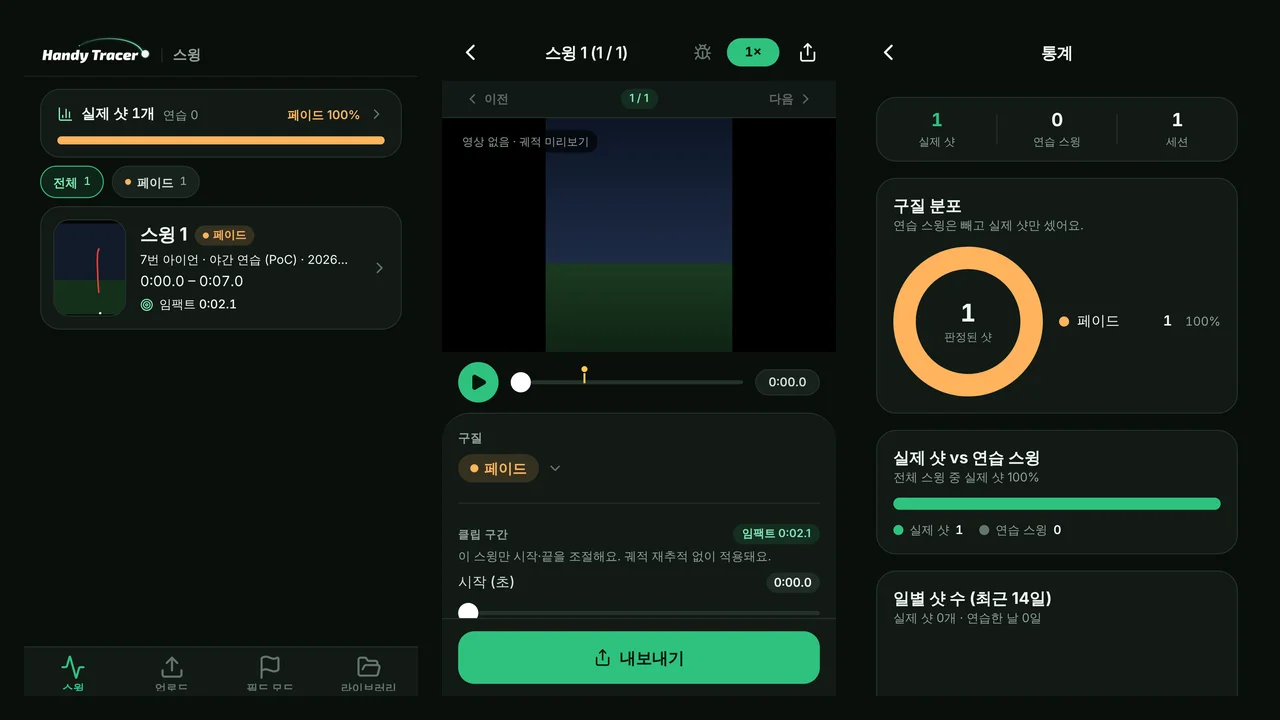
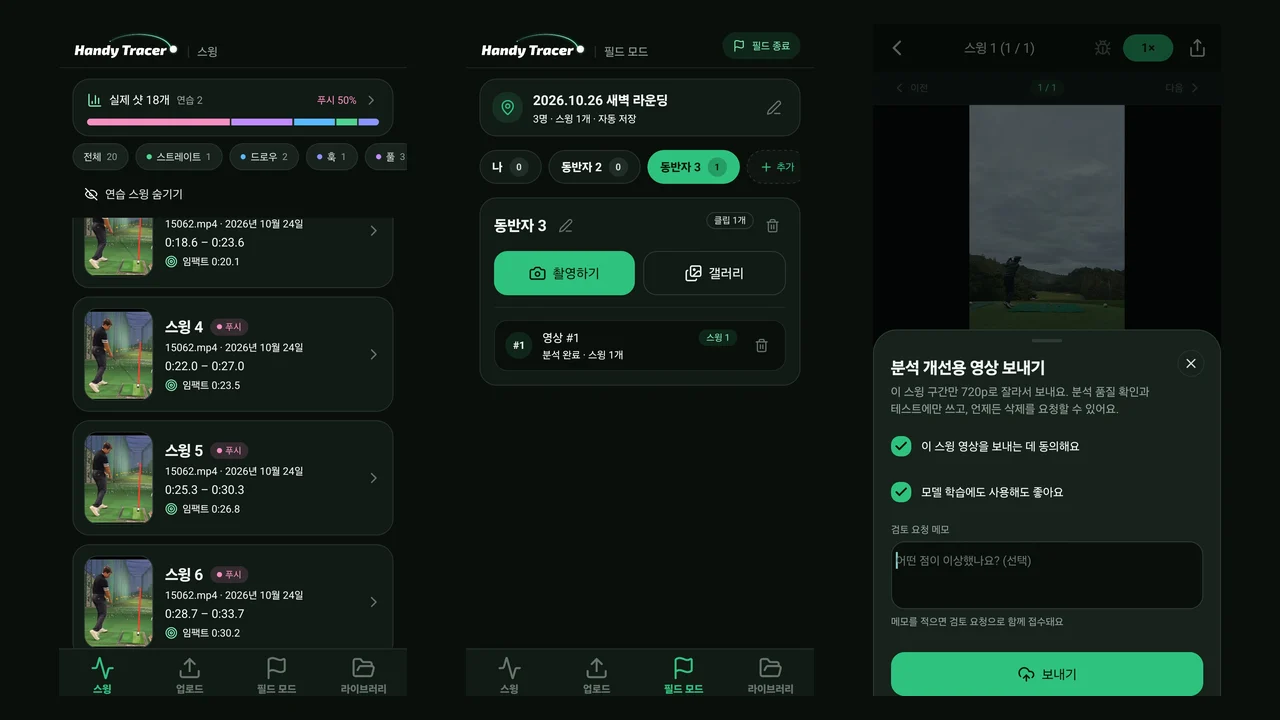
feat : Handy Tracer 실기기 스크린샷으로 교체, 프로젝트 메타 한 줄 추가
- Handy Tracer 포스터를 실제 기기 캡처 3장(스윙 목록/필드 모드/편집기)으로 합성한 WebP(48KB)로 교체
- ProjectItem에 meta(선택) 필드 추가, 카드 설명 위와 라이트박스 설명에 표시
- i18n Project.handy-tracer.meta: "1인 개발 · 진행 중" / "Solo project · In progress"

Claude-Session: https://claude.ai/code/session_01F3qTXtAKSjbavGSVaebv7C

diff --git a/src/feature/portfolio/ui/project-section.tsx b/src/feature/portfolio/ui/project-section.tsx
@@ -22,6 +22,8 @@ export type ProjectItem = {
   id: string;
   title: string;
   description: string;
+  /** 기간 · 역할 · 상태 같은 한 줄 요약 (선택) */
+  meta?: string;
   /** 정지 썸네일 (가볍게, 항상 보임) */
   poster: string;
   /** 화면 녹화 GIF (클릭했을 때만 로드) */
@@ -88,7 +90,7 @@ function ProjectCard({ p, labels }: { p: ProjectItem; labels: Labels }) {
             <DialogHeader>
               <DialogTitle className="text-xl">{p.title}</DialogTitle>
               <DialogDescription className="text-foreground/80">
-                {p.description}
+                {p.meta ? `${p.meta} — ${p.description}` : p.description}
               </DialogDescription>
             </DialogHeader>
             <div className="overflow-hidden rounded-md border bg-white">
@@ -108,6 +110,11 @@ function ProjectCard({ p, labels }: { p: ProjectItem; labels: Labels }) {
           </DialogContent>
         </Dialog>
 
+        {p.meta && (
+          <p className="m-0 text-xs font-medium text-muted-foreground">
+            {p.meta}
+          </p>
+        )}
         <p className="m-0 text-sm leading-relaxed text-foreground/85">
           {p.description}
         </p>
@@ -150,6 +157,7 @@ export default function ProjectSection() {
       id: "handy-tracer",
       title: t("handy-tracer.name"),
       description: t("handy-tracer.description"),
+      meta: t("handy-tracer.meta"),
       poster: "/images/project/handy-tracer.webp",
       stacks: [
         "ReactNative",
